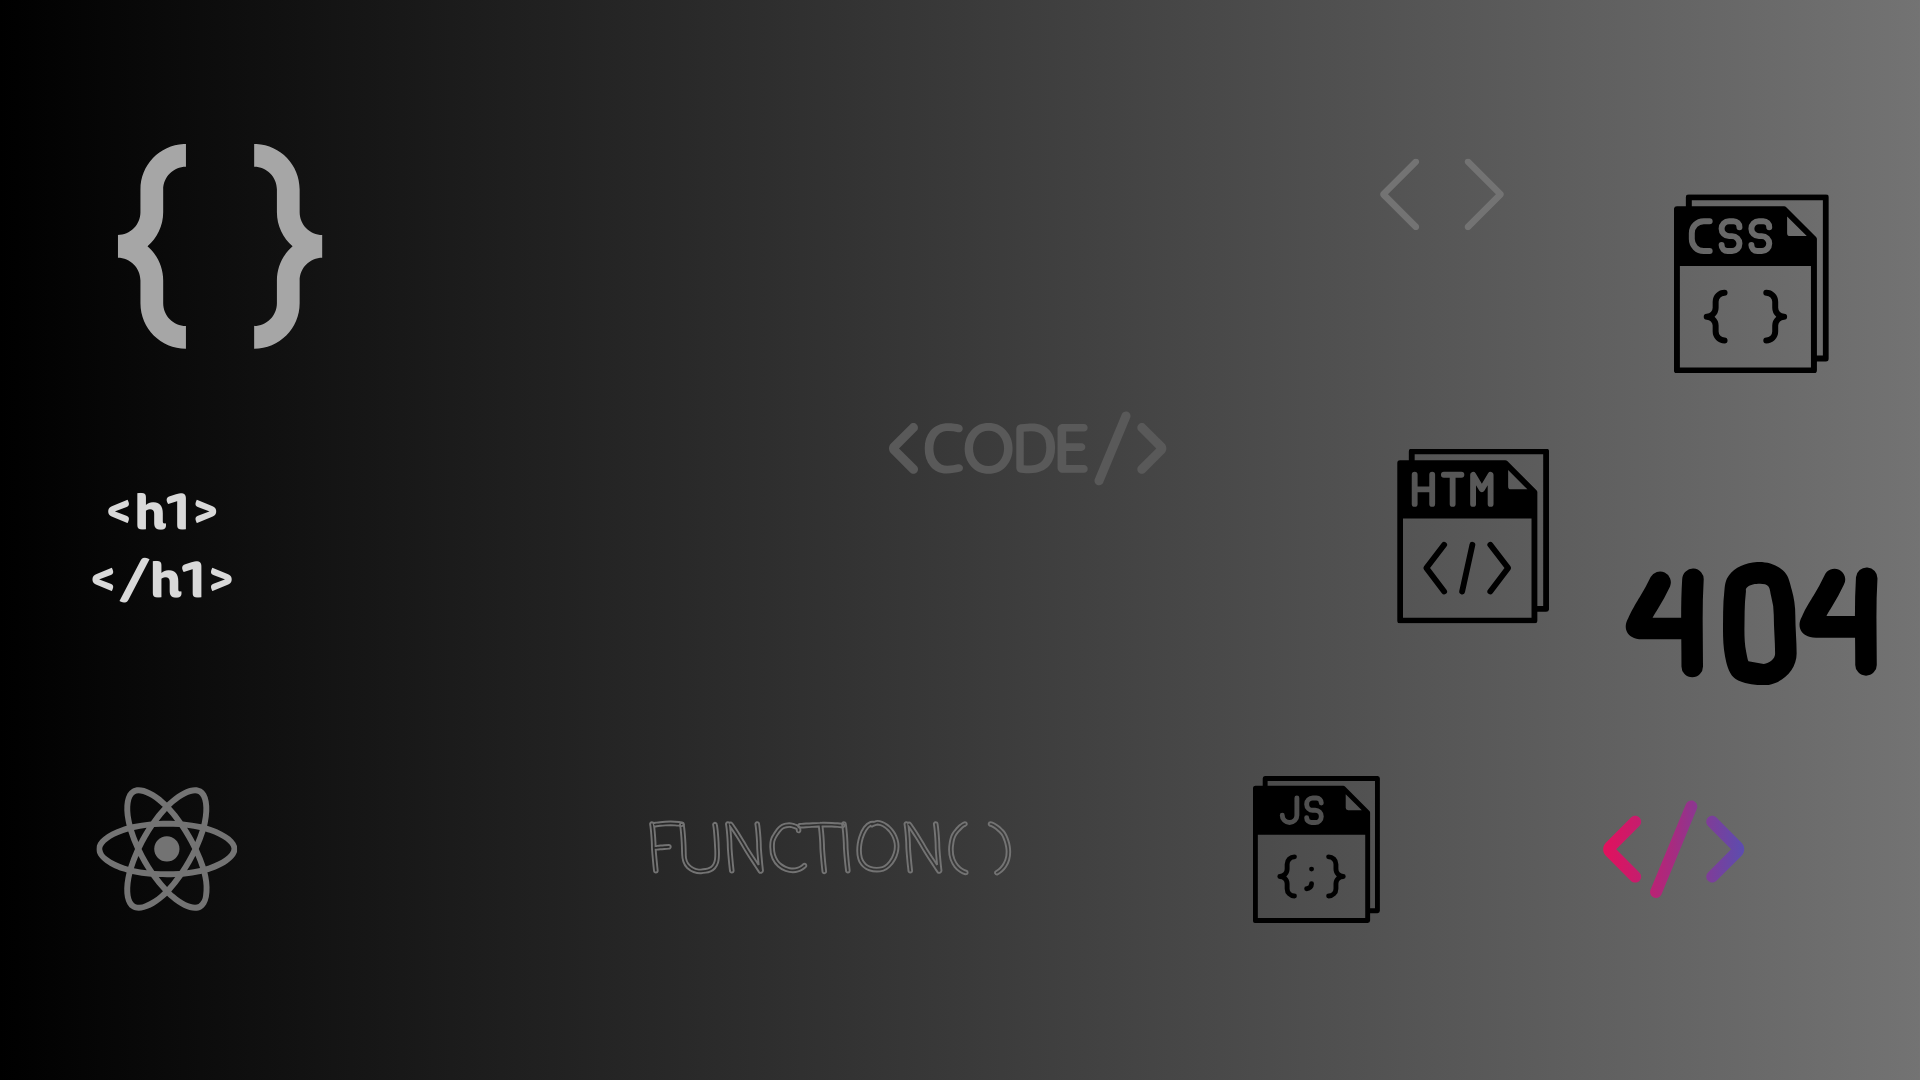
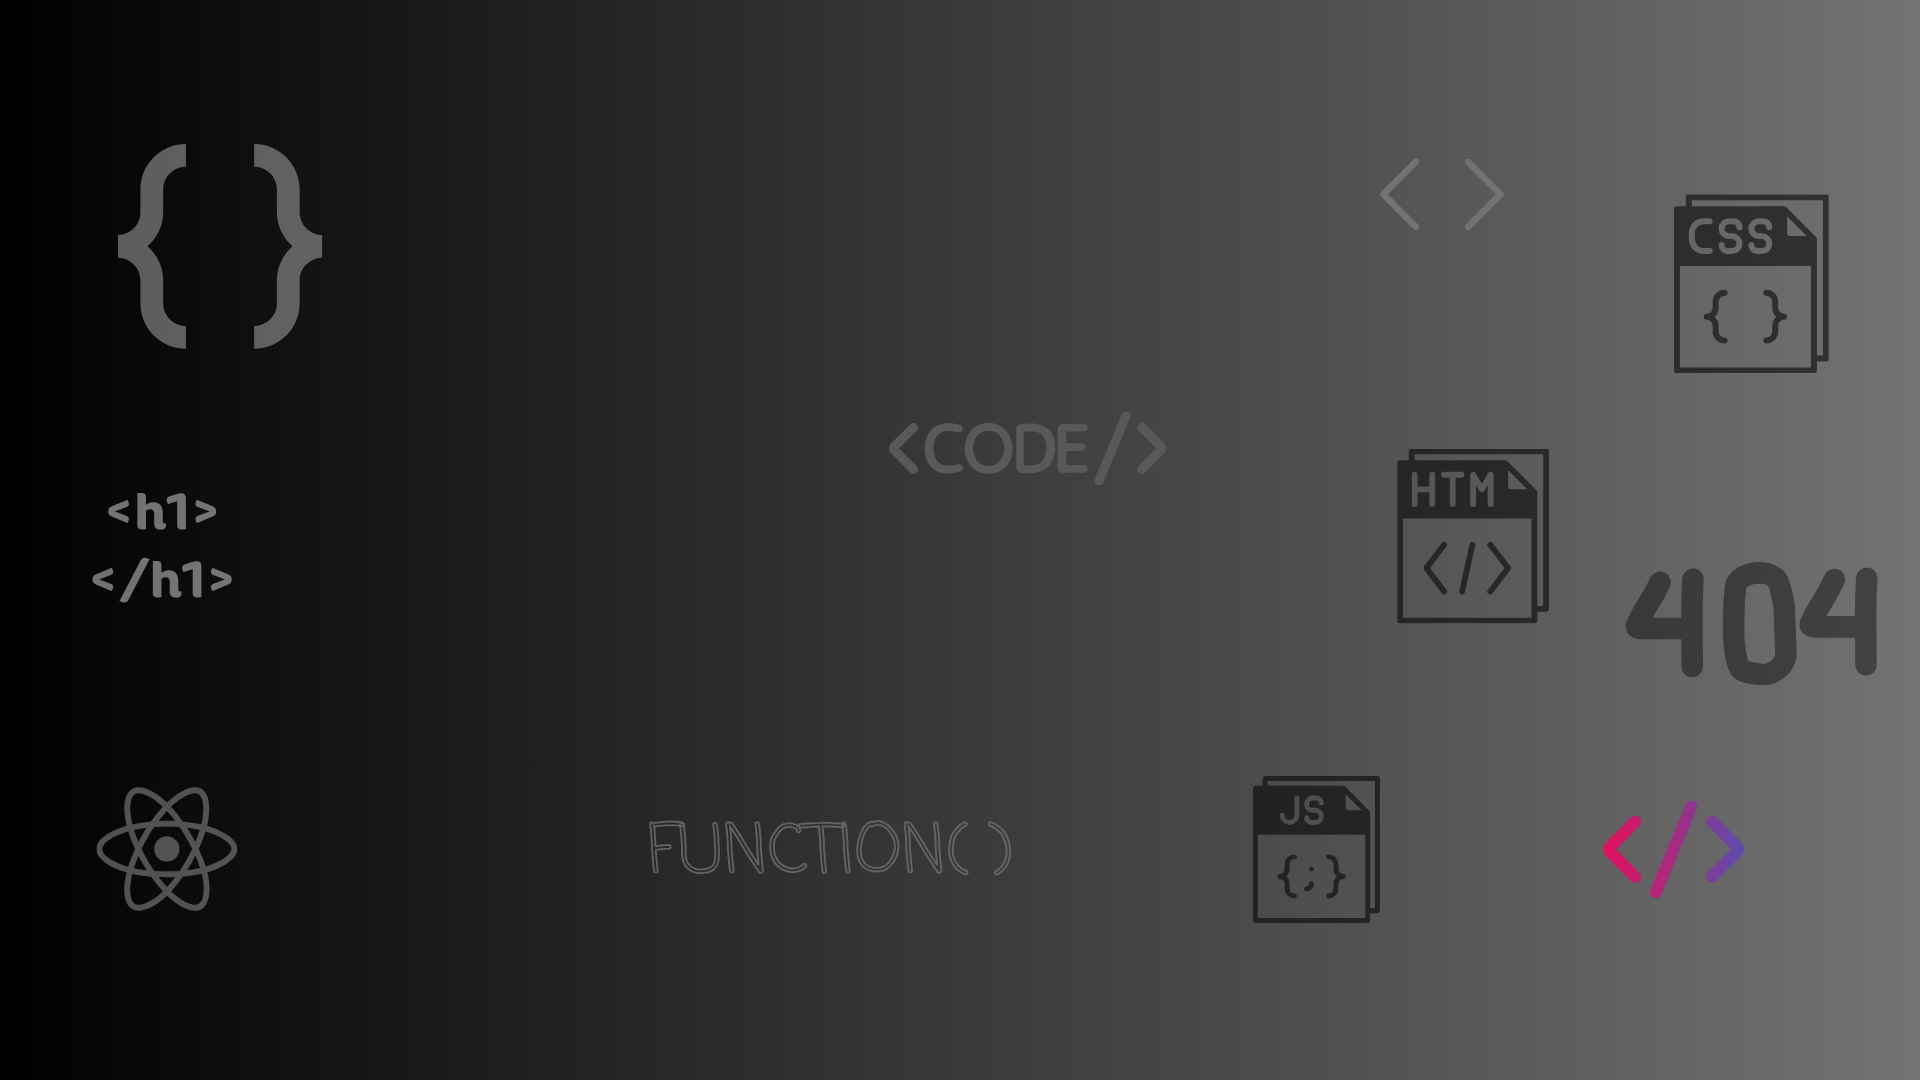
Updated background for homepage

diff --git a/src/pages/home/home.css b/src/pages/home/home.css
@@ -4,8 +4,7 @@
 
 #header {
   padding-top: 3rem;
-  background: rgb(0, 0, 0);
-  background: linear-gradient(180deg, rgba(0, 0, 0, 1) 0%, rgba(120, 120, 120, 1) 100%);
+  background-image: url(../../assets/home-background-1440.png);
   min-height: 100vh;
 }
 
@@ -93,7 +92,7 @@ ul li:hover a::before {
 }
 
 .fa, .fa-brands, .fa-classic, .fa-regular, .fa-sharp, .fa-solid, .fab, .far, .fas {
-  line-height: 1.5;
+   line-height: 1.5;
 }
 
 @media screen and (max-width: 1024px) {
